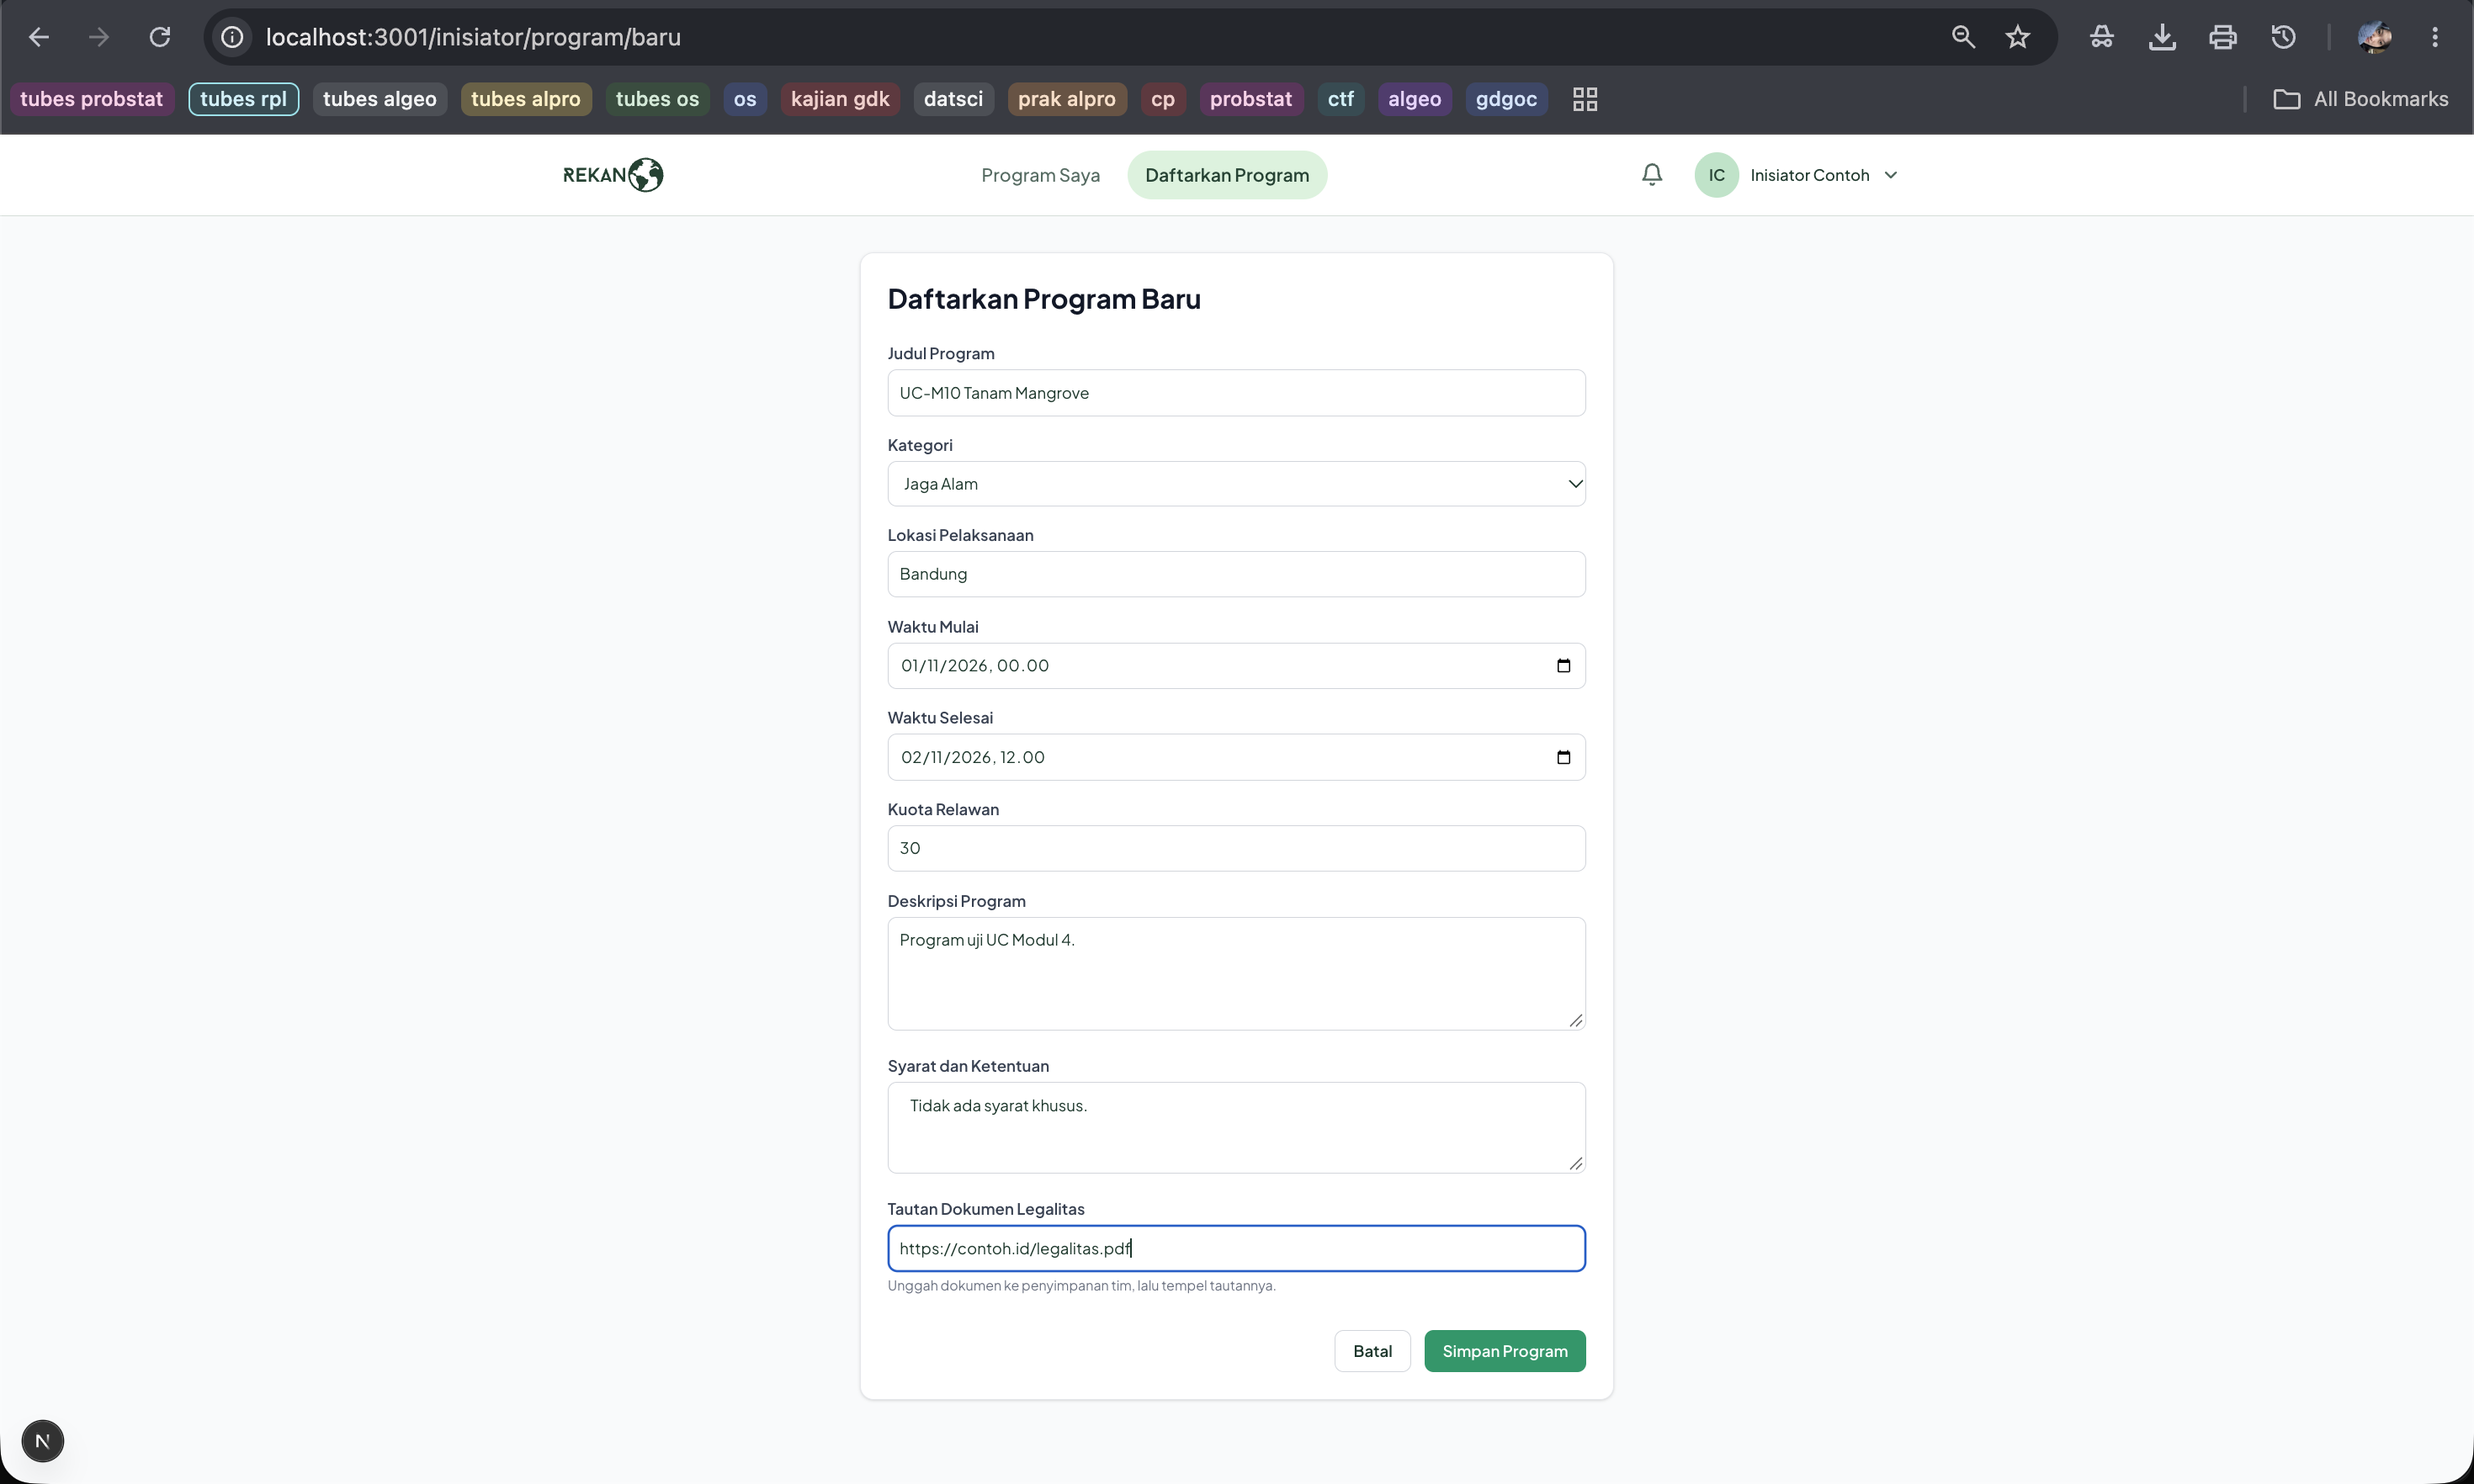
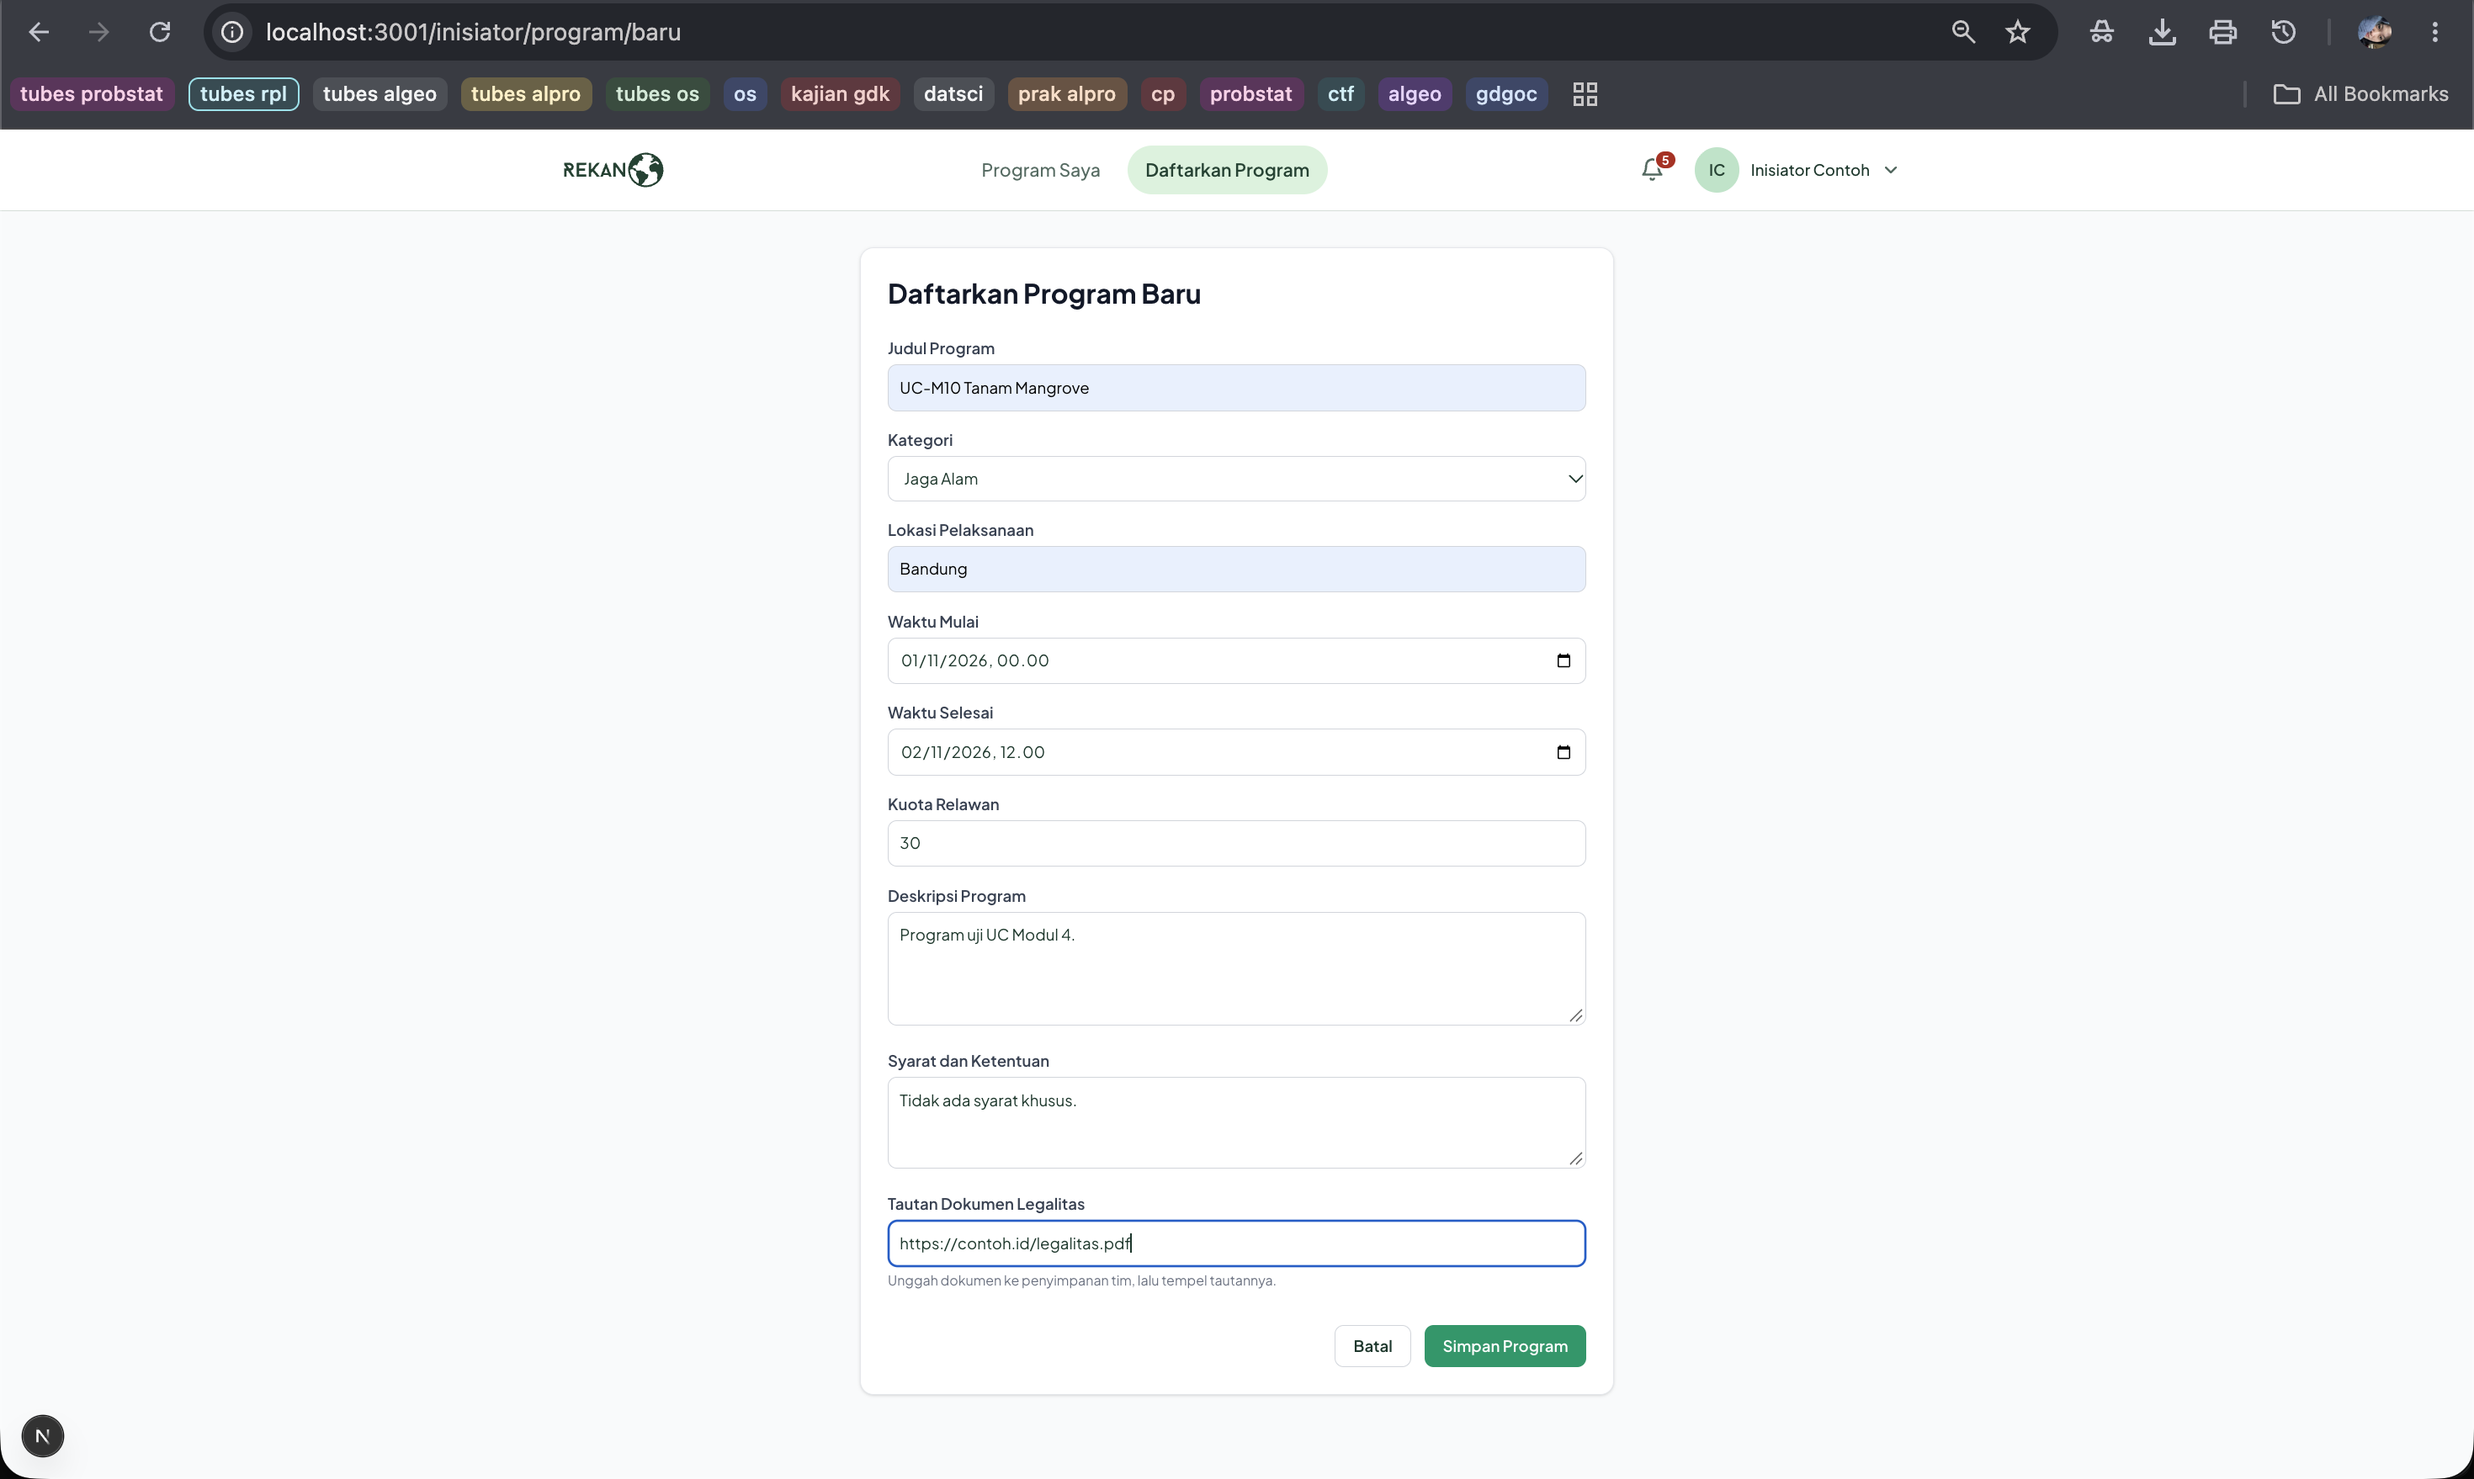
docs: perbarui bukti UC01-TC03 dan rapikan baris 853

diff --git a/docs/M10/K03_G01_HIUPL.md b/docs/M10/K03_G01_HIUPL.md
@@ -978,7 +978,7 @@ Tabel 4.6. Bukti Hasil Pengujian
 | INT-TC30 – INT-TC39 | <img src="./assets/INT-TC30-TC39.png" alt="Keluaran integration test laporan dan verifikasi program" width="600"> |
 | UC01-TC01 | <img src="./assets/UC01-TC01-a.png" alt="UC01-TC01 formulir terisi" width="400"> <img src="./assets/UC01-TC01-b.png" alt="UC01-TC01 akun berhasil dibuat" width="400"> |
 | UC01-TC02 | <img src="./assets/UC01-TC02.png" alt="UC01-TC02 data diri tidak lengkap" width="400"> |
-| UC01-TC03 | <img src="./assets/UC01-TC03-a.png" alt="UC01-TC03 formulir program terisi" width="400"> <img src="./assets/UC01-TC03-b.png" alt="UC01-TC03 program berhasil dibuat" width="400"> <img src="./assets/UC01-TC03-c.png" alt="UC01-TC03 program tampil di Program Saya" width="400"> |
+| UC01-TC03 | <img src="./assets/UC01-TC03-a.png" alt="UC01-TC03 formulir program terisi" width="400"> <img src="./assets/UC01-TC03-b.png" alt="UC01-TC03 program baru tampil di Program Saya" width="400"> |
 | UC01-TC04 | <img src="./assets/UC01-TC04.png" alt="UC01-TC04 lembaga belum terverifikasi" width="400"> |
 | UC02-TC01 | <img src="./assets/UC02-TC01-a.png" alt="UC02-TC01 detail program sebelum login" width="400"> <img src="./assets/UC02-TC01-b.png" alt="UC02-TC01 tidak diarahkan ke login" width="400"> |
 | UC02-TC02 | <img src="./assets/UC02-TC02-a.png" alt="UC02-TC02 login dengan urlKembali" width="400"> <img src="./assets/UC02-TC02-b.png" alt="UC02-TC02 kembali ke halaman program" width="400"> |
